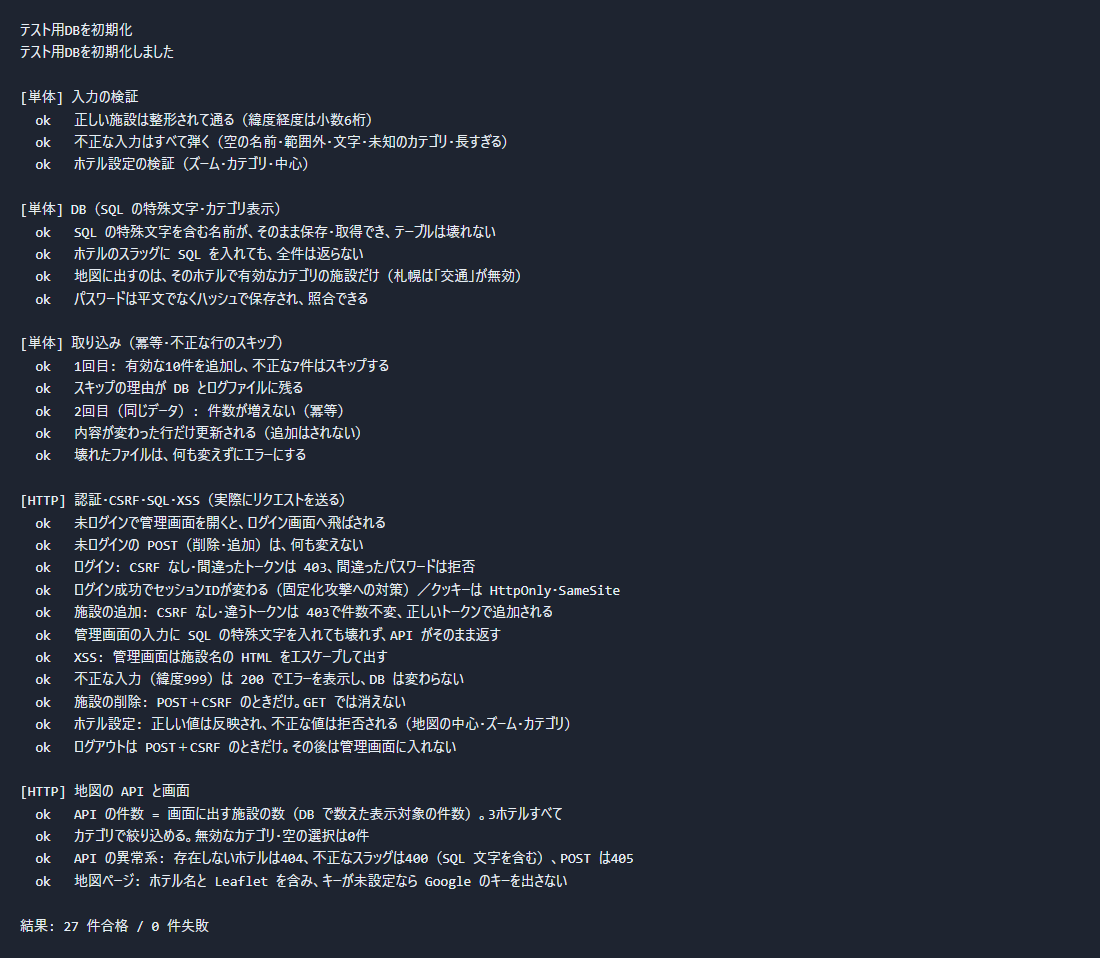
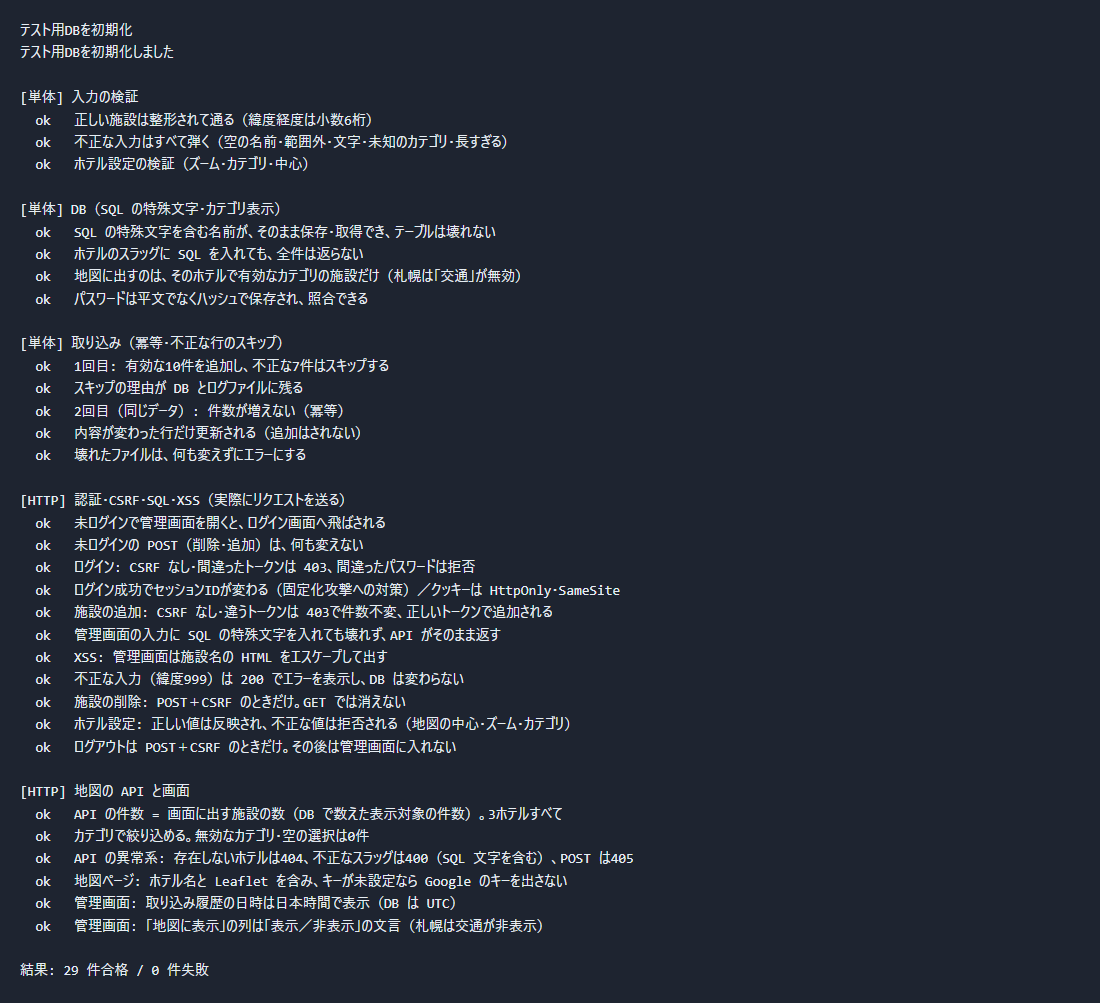
docs: neutral wording, public notice, static demo docs, refreshed screenshots and checks

Changed region(s): [[0.0, 0.0908, 0.5873, 0.9687], [0.0, 0.0, 0.1545, 0.0605]]

diff --git a/README.md b/README.md
@@ -1,7 +1,9 @@
 # 施設マップ × 管理画面 の小さなデモ（case15・自主検証）
 
+**自主検証のデモです。閲覧用に公開しています。**
+
 「ホテルごとに施設情報を持ち、地図に表示し、管理画面で編集でき、外部データを取り込める」の最小構成。
-**自作の自主検証で、実務・受託の実績ではない。** ホテル・施設・人物はすべて架空（地図の中心だけ実在の地域の座標）。先方のシステムは見ておらず、再現もしていない。
+**自作の自主検証で、実務・受託の実績ではない。** ホテル・施設・人物はすべて架空（地図の中心だけ実在の地域の座標）。既存の特定のシステムは見ておらず、再現もしていない。
 
 - 着手: 2026-09-24 23:49（最初のコミット 23:52:10）。完成の時刻は下の「経過」を参照（`git log` の時刻であり、作業時間そのものではない）
 
@@ -17,6 +19,16 @@ docker compose up -d --build
 - テスト: `docker compose --profile test up -d --build web_test` → `docker compose --profile test exec -T web_test php tests/run_all.php`
 - わざと壊す確認: `python tests/mutation_check.py`（コードのコピーを壊して、テストが赤になることを確かめる）
 
+## 静的版（閲覧用・`static/`）
+Docker 無しで見られる、**読み取り専用**の地図ページ。Leaflet + OpenStreetMap のみ（API キー・PHP・MySQL は使わない）。ホテルの切り替え・カテゴリの絞り込み・情報ウィンドウ。画面に「自主検証・架空データ」と明記している。
+- 中身: `static/index.html`・`app.js`・`data.js`（施設データの**固定の写し**）・`style.css`・`vendor/leaflet/`（Leaflet 1.9.4・BSD-2-Clause）
+- データの作り方: 動いているデモの API から生成 → `node scripts/build_static.mjs`（`data.js` は手で編集しない。デモのデータを変えたら作り直す）
+- 手元で見る: `static/` で `python -m http.server 8090` → http://localhost:8090/ （`file://` の直接表示は未確認）
+- CSP は `default-src 'none'`（外部通信は OSM のタイルだけ許可・`connect-src 'none'`）。**Netlify に載せると、Netlify が自動で入れるスクリプトが CSP で止められ、公開版だけコンソールにエラーが出ることがある**（画面の動作には影響しない・過去の別デモでの経験。この静的版では公開後の確認は未実施）
+- **Netlify Drop は、載せたサイトを丸ごと置き換える。既存のサイトに `static/` を直接ドロップしない**（別サイトとして作るか、既存サイトの公開用フォルダにサブフォルダとして足す）
+- 検査: `node tests/static_check.mjs`（27 件・データが API と一致／キーや Google の読み込みが無い／外部 URL は OSM のみ／明記あり）と `tests/static_e2e.mjs`（28 件・ブラウザで実操作）。実出力: `docs/evidence/static_check_output.txt`・`static_e2e_output.txt`
+- 静的版は、管理画面・取り込み・Google Maps 版を**含まない**（それらは Docker で動かす本体）
+
 ## 画面（`docs/screens/`・Playwright で自動撮影。`node tests/capture_screens.mjs`）
 撮影は画面の中身だけ（開発者ツール・`.env`・キーは写っていない。ログイン画面は入力前の状態）。Google 版は 2026-09-25 にキーを入れて撮影。
 
@@ -27,8 +39,9 @@ docker compose up -d --build
 
 - 京都・Google 版でマーカーを押した状態（情報ウィンドウ）: ![情報ウィンドウ](docs/screens/10_map_kyoto_google_infowindow.png)
 - 管理画面: [ログイン](docs/screens/05_admin_login.png) ／ [ホテル一覧と取り込み結果](docs/screens/06_admin_index_import_history.png) ／ [ホテルの設定・施設一覧](docs/screens/07_admin_hotel_facilities.png) ／ [施設の編集](docs/screens/08_admin_facility_edit.png)
-- テスト 27件合格: ![テスト](docs/screens/09_tests_passed.png)（`docs/evidence/test_output.txt` の実出力を端末風に描いた画像）
-- 取り込み結果の画面（06）の日時は DB の時刻（UTC）で、日本時間の表記（`docs/evidence/`）とは 9 時間ずれる。
+- 静的版（Leaflet + OSM のみ）: ![静的版・京都](docs/screens/11_static_kyoto.png) ![静的版・那覇と情報ウィンドウ](docs/screens/12_static_naha_popup.png)
+- テスト 29件合格: ![テスト](docs/screens/09_tests_passed.png)（`docs/evidence/test_output.txt` の実出力を端末風に描いた画像）
+- 取り込み結果の画面（06）の日時は日本時間（DB は UTC で保存し、表示するときに変換。見出しにも「日本時間」と表示）。
 - 画面の地図の背景は、各社の地図が持つ実在の地名を含む。施設・ホテル・住所は架空で、座標だけ実在の地域。
 
 ## 作ったもの
@@ -44,10 +57,13 @@ docker compose up -d --build
 ## 実測した数字（2026-09-25・Docker 上で実行）
 - **マーカー数 = API の件数 = DB の表示対象の件数**（Leaflet 版・ブラウザで確認。Google 版は下の節）: **京都 8・札幌 4 はブラウザで、画面のマーカー数まで確認**（札幌は DB に5件あるが、「交通」を表示しない設定なので1件は出ない）。**那覇 5 は 2026-09-25 の自動撮影で、画面のマーカー数まで確認**（`docs/screens/measurements.json`）。カテゴリを素早く切り替える操作を10回繰り返しても、京都の画面・API・DB が一致
 - **取り込み**: 1回目 追加10・スキップ7 → 2回目（同じデータ）**追加0・更新0・変更なし10**・スキップ7（施設は計18件のまま）: `docs/evidence/import_output.txt`（DB の `import_runs` の実出力）
-- **テスト 27件合格**（規則の単体 12＋HTTP 15。実際にリクエストを送って、未ログイン・CSRF・SQL の特殊文字・XSS・API の異常系を確認）: `docs/evidence/test_output.txt`
+- **テスト 29件合格**（規則の単体 12＋HTTP 17。実際にリクエストを送って、未ログイン・CSRF・SQL の特殊文字・XSS・API の異常系を確認）: `docs/evidence/test_output.txt`
 - **わざと壊した7か所すべてで、テストが赤**（認可／CSRF／冪等／SQL のプレースホルダ／HTML エスケープ／セッションID／表示カテゴリ）: `docs/evidence/mutation_check_output.txt`
 - 見つけて直した不具合: カテゴリを素早く切り替えると、古い応答が後から届いて表示を上書きした（ブラウザで再現→修正→10回連続で一致を確認）
 - 見つけて直した見た目の不具合（2026-09-25・撮影した画像で発見）: 管理画面のホテル設定で、カテゴリのチェックボックスが縦に中央寄せになっていた（`.card label` の指定が `.check` に勝っていた）→ `app.css` に1行足して修正。テスト 27件は修正後も合格
+- 見つけて直した不具合（取り込み履歴の日時）: 管理画面の「日時」が日本時間でなく世界標準時（UTC）のまま出ていた（MySQL が UTC で動き、保存された値をそのまま表示していた。PHP の設定は日本時間なのに変換していなかった）→ 表示するときに日本時間へ変換し、見出しを「日時（日本時間）」に。テスト 2 件（変換の値・画面の文言）を追加し、わざと元に戻すと赤になることを確認（`mutation_check.py` の 7 変異には未追加）
+- 見つけて直した見た目の不具合（「地図に表示」の列）: 表示対象の行に「○」が出ていて、空のラジオボタンのように見えた（意味は「地図に表示する」で、不具合ではなく紛らわしい表示）→ 「表示」／「非表示（このホテルでは表示しないカテゴリ）」の文言に変更。上のテスト 1 件で確認
+- 見つけて直した不具合（静的版・ブラウザでの実操作で発見）: 同じタブで URL の `#kyoto` → `#sapporo` のようにハッシュだけ変えても、ホテルが切り替わらなかった → `hashchange` に追従。修正前は E2E 28 件中 14 件が赤になった
 - 見つけて直した不具合（コンソールの 404）: `/favicon.ico` が無く 404 が1件出ていた → 各ページに空のアイコン指定（`<link rel="icon" href="data:,">`）を追加。地図（Leaflet・Google）と管理画面のログインで、コンソールエラー 0 を確認（Edge・自動）
 
 ## Google 版の状態: **一部検証済み**（2026-09-25・オーナーが `.env` にキーを入れて実測）
@@ -57,9 +73,10 @@ docker compose up -d --build
 - キーが無いときは、地図の選択肢に「Google Maps（APIキー未設定・未検証）」が出て、選べない。
 
 ## 作っていないもの・未検証の点
-- 先方の β 版の再現／AI 検索・AI コンシェルジュの実装（設計メモで差し込み口を示しただけ）／実在のホテル・実在サービスの API の利用
+- 既存のシステムの再現／AI 検索・AI コンシェルジュの実装（設計メモで差し込み口を示しただけ）／実在のホテル・実在サービスの API の利用
 - フレームワークは使っていない（素の PHP + PDO）。Composer・PHPUnit も未使用（自作の小さなテスト実行スクリプト）
 - ブルートフォース対策（ログインの試行回数の制限）・パスワード変更・複数の管理者の権限分け・監査ログ・CSP ヘッダー・HTTPS（ローカルの http のみ）は**未実装**
+- 静的版は読み取り専用で、施設データは固定の写し（デモの DB を変えても自動では変わらない）。管理画面・取り込み・Google Maps 版は載せていない
 - 外部で削除された施設の扱い（論理削除）は未実装（設計メモに記載）
 - 取り込みは、管理画面で手編集した「取り込み由来の行」を、次の取り込みで上書きする（手編集を保護する仕様は無い）
 - ログインのセッションに有効期限の設定は無い（ブラウザを閉じるまで）。`docker-compose.yml` は 8080・8081 を全インターフェースに公開するので、`.env` の管理者パスワードは必ず自分の値にする
@@ -72,22 +89,24 @@ docker compose up -d --build
 ## 経過（`git log`）
 `git log --format='%h %ad %s' --date=iso` を参照。
 
-## GitHub に公開できる状態かの最終確認（2026-09-25・コミット前の作業ツリーで実施）
+## GitHub に公開できる状態かの最終確認（2026-09-25・静的版の追加と修正のコミット後、README・画像のコミット前に再実行）
 公開の操作そのものはオーナー。ここは確認結果だけ。
 
 | 確認 | 結果 | 確かめ方 |
 |---|---|---|
 | `.env` が追跡対象外 | 追跡なし・`.gitignore` の1行目で除外。履歴にも `.env` は 0 件 | `git ls-files` / `git check-ignore -v .env` / `git log --all -- .env` |
 | コミットされる設定ファイル | `.env.example` のみ。キーは空、パスワードは `change-me` の見本値 | `git ls-files`・`.env.example` の目視 |
-| 履歴に秘密が無い | **5 コミット・約 289KB を走査して 0 件**（gitleaks 8.30.1） | `gitleaks git --redact .` |
+| 履歴に秘密が無い | **10 コミット・約 493KB を走査して 0 件**（gitleaks 8.30.1） | `gitleaks git --redact .` |
 | 作業ツリーの走査 | 3 件検出。**すべて未コミットの `.env` 自身**（キーとパスワード。`.gitignore` 済みで公開されない）。ほかは 0 件 | `gitleaks dir --redact .`（検出ファイルを JSON で確認） |
-| `.env` の実際の値が追跡ファイルに入っていない | API キー・管理者パスワード・DB パスワードのいずれも 0 件 | `git grep -F`（値は表示していない） |
-| 画像に秘密が写っていない | 目視で全 10 枚を確認。キー・`.env`・開発者ツール・パスワードの黒丸なし | 画像を開いて確認 |
-| データが架空 | ホテル・施設・住所はすべて「（架空）」付き。**実在の店名との照合は未実施** | `data/mock_facilities.json`・`db/seed.sql` |
-| ライセンス | **リポジトリの LICENSE は未作成**（公開時にオーナーが決める。同梱の Leaflet は BSD-2-Clause） | `ls LICENSE*` |
+| `.env` の実際の値が追跡ファイルに入っていない | API キー・管理者パスワード・DB パスワード・DB ルートパスワードのいずれも 0 件 | `git grep -F`（値は表示していない） |
+| 画像・静的版にキーが入っていない | 画像 12 枚と `static/` に、`.env` のキー文字列は 0 件。画像は目で確認（キー・`.env`・開発者ツール・パスワードの黒丸なし） | 文字列検索と目視 |
+| 実名・個人情報 | 本名・メールアドレス・会社名の文字列は 0 件（ファイル全体を検索）。**リポジトリへのリンクとして GitHub のユーザー名（`Hide-Saku`）が `static/index.html` に入っている** | `grep` |
+| データが架空 | ホテル・施設・住所はすべて「（架空）」付き（静的版の検査でも確認）。**実在の店名との照合は未実施** | `data/mock_facilities.json`・`db/seed.sql`・`tests/static_check.mjs` |
+| ライセンス | **リポジトリの LICENSE は未作成**（作らない方針）。同梱の Leaflet は BSD-2-Clause | `ls LICENSE*` |
 
-- **キーの扱いの注意**: 地図ページの HTML には、Google のキーが `<meta name="gmaps-key">` として出る（Maps JavaScript API の仕様上、ブラウザに渡る）。だから**リファラ制限と API 制限が必須**。制限を付けていない状態でデモを外部に公開しない。
-- 上記は 2026-09-25 時点。公開の直前に `gitleaks git .` を再実行する。
+- `git grep AIza` は、キーの伏せ字処理・検査の正規表現を書いたスクリプト 2 本（`tests/capture_screens.mjs`・`tests/static_check.mjs`）でだけ当たる。キーそのものではない。
+- **キーの扱いの注意**: 本体の地図ページの HTML には、Google のキーが `<meta name="gmaps-key">` として出る（Maps JavaScript API の仕様上、ブラウザに渡る）。だから**リファラ制限と API 制限が必須**。制限を付けていない状態で、キーを入れたデモを外部に公開しない。**静的版はキーを使わない。**
+- 公開の直前に `gitleaks git .` を再実行する。
 
 ## 画面録画の台本（30〜60秒・オーナーが撮る想定）
 1. 地図ページ（京都・Leaflet）: 「DB の件数 8／マーカー数 8（一致）」を見せる
@@ -97,4 +116,4 @@ docker compose up -d --build
 5. ホテルを那覇に切り替える（カテゴリの種類がホテルごとに違う）
 6. 管理画面にログイン → ホテル一覧と取り込みの履歴（追加 10・スキップ 7 → 2 回目は変更なし 10）
 7. 施設を 1 件編集して保存 → 地図に戻って反映を見せる
-8. 最後にテスト 27 件合格の画面（または画像）を見せて、「自主検証で実務の実績ではない」と一言添える
+8. 最後にテスト 29 件合格の画面（または画像）を見せて、「自主検証で実務の実績ではない」と一言添える

diff --git a/docs/DESIGN_PROPOSALS.md b/docs/DESIGN_PROPOSALS.md
@@ -2,7 +2,7 @@
 
 「Google Maps × 施設データ × 管理画面」の小さなデモを作りながら、**こちらから気付いて提案できる点**を3つにまとめる。
 根拠は公式ドキュメント（取得日 2026-09-24）。取得は要約経由のため、引用は要約結果の文言で、**原文との厳密な一致は未確認**（詳細と URL は `docs/research_official_docs.md`）。
-確認できなかった点は「未確認」と書き、断定しない。先方の β 版は見ていないので、以下は「一般に、こう決める必要がある」という提案で、先方の現状の評価ではない。
+確認できなかった点は「未確認」と書き、断定しない。既存の特定のシステムは見ていないので、以下は「一般に、こう決める必要がある」という提案で、特定のシステムの現状の評価ではない。
 
 ## 1. API キーの制限と、費用の上限
 
@@ -24,7 +24,7 @@
 
 - **確認できたこと**: **Place ID は、キャッシュ制限の対象外で、無期限に保存してよい**（Geocoding のポリシーページ）。一方、「ほとんどのジオコーディング結果は長期の保存・キャッシュができない」という趣旨の記述がある。
   出典: https://developers.google.com/maps/documentation/geocoding/policies
-- **確認できなかったこと（未確認）**: **緯度経度そのものを何日まで保存できるか**。利用規約（Service Specific Terms）の本文を、今回のツールでは取得できなかった。**「期間はこれ」とは書かない。案件に入る前に、規約の該当条項を直接読んで確認する必要がある。**
+- **確認できなかったこと（未確認）**: **緯度経度そのものを何日まで保存できるか**。利用規約（Service Specific Terms）の本文を、今回のツールでは取得できなかった。**「期間はこれ」とは書かない。実運用に入る前に、規約の該当条項を直接読んで確認する必要がある。**
   あわせて、**Google 由来のデータを Google 以外の地図（Leaflet/OSM）に表示してよいか**も、規約の本文を確認できていない（ポリシーページには、Google の地図以外に表示する場合は帰属表示が必要という趣旨の記述）。
 - **このデモの設計への反映**: 地図アダプタは差し替え可能にしたが、**表示しているのは自前のデータだけ**（Google から取得したデータは一切使っていない）。だから OSM 側の表示で規約に触れる問題は起きない。将来、Google のジオコーディングを使うなら、次のテーブルで**取得元・取得日時・期限を必ず持たせる**:
   `facility_geocodes(facility_id, provider, place_id, lat, lng, fetched_at, expires_at)`。`expires_at` を過ぎた行は、バッチで削除または再取得する。`place_id` だけは期限なしで保持できる（上記の公式記述による）。
